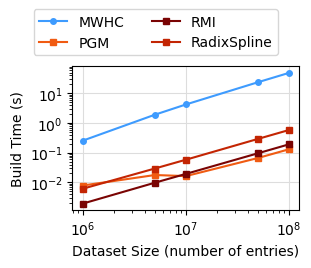
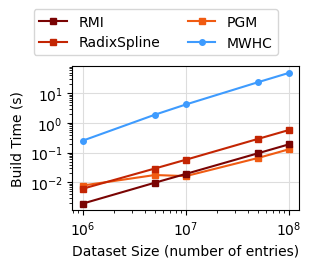
Complete new figures

diff --git a/scripts/print_figures.py b/scripts/print_figures.py
@@ -467,7 +467,10 @@ def build(df):
     plt.yscale('log')
     labx = plt.xlabel('Dataset Size (number of entries)')
     laby = plt.ylabel('Build Time (s)')
-    lgd = fig.legend(loc='upper center', labels=functions, ncol=len(functions)//2+len(functions)%2, bbox_to_anchor=(0.5, 1.3))
+
+    labels, handles = sort_labels(functions, [line for line in fig.axes[0].lines])
+    # Add a single legend to the entire figure with labels on the same line
+    lgd = fig.legend(handles=handles, loc='upper center', labels=labels, ncol=len(functions)//2+len(functions)%2, bbox_to_anchor=(0.5, 1.3))
     plt.grid(True)
     fig.savefig(f'{prefix}_build.png', bbox_extra_artists=(lgd,labx,laby,), bbox_inches='tight')
 
